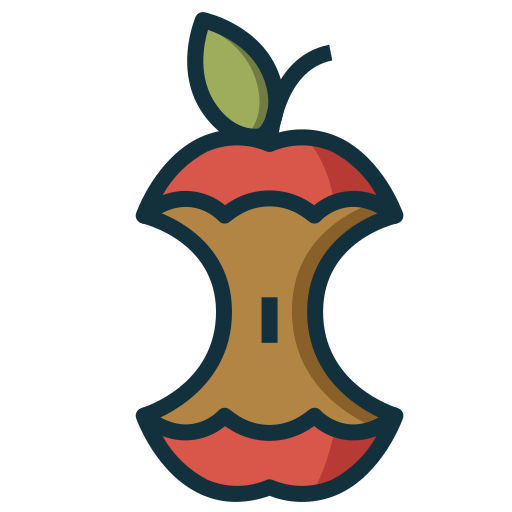
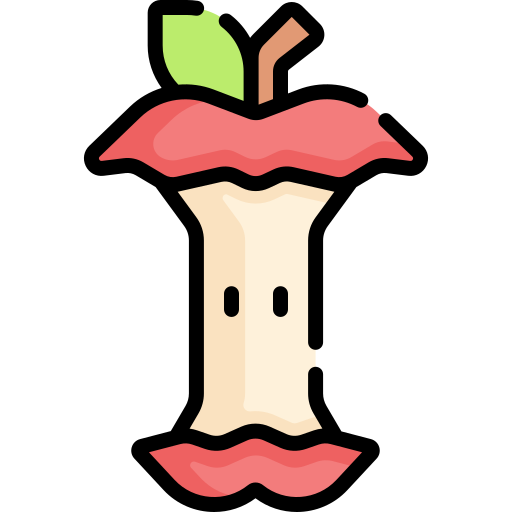
pantalla de fondo de juego colocada ya justada

diff --git a/assets/js/main.js b/assets/js/main.js
@@ -1,7 +1,7 @@
 const canvas = document.getElementById("canvasJuego");
 const ctx = canvas.getContext("2d");
 const fondo = new Image();
-fondo.src = "/assets/img/fondojuego.jpg";
+fondo.src = "./assets/img/fondo_juego.avif";
 const imagenes = {
 
     basura: [
@@ -96,7 +96,13 @@ btnComenzar.addEventListener("click", () => {
 
 // FUNCION BASE DEL JUEGO
 function iniciarJuego() {
-     document.body.classList.add("jugando"); // 👈 activa modo juego
+
+    document.body.classList.add("jugando");
+
+    // 👇 OCULTAR TÍTULO SOLO EN JUEGO
+    const titulo = document.querySelector(".tituloGame");
+    if (titulo) titulo.style.display = "none";
+
     gameLoop();
 }
 
@@ -206,7 +212,7 @@ if (obj.tipo === "botiquin") {
 });
 function gameLoop() {
 
-    ctx.clearRect(0, 0, canvas.width, canvas.height);
+    ctx.drawImage(fondo, 0, 0, canvas.width, canvas.height);
 
     actualizarObjetos();
     actualizarNivel();
@@ -224,31 +230,31 @@ function dibujarHUD() {
 
     // Fondo
     ctx.fillStyle = "rgba(0,0,0,0.5)";
-    ctx.fillRect(10, 10, 150, 80);
+    ctx.fillRect(10, 10, 170, 90);
 
-    // Texto principal (más grande)
+    // 👇 TEXTO MÁS GRANDE
     ctx.fillStyle = "#00ffe0";
-    ctx.font = "13px Orbitron";
+    ctx.font = "16px Orbitron";
 
-    ctx.fillText("Nivel: " + nivel, 15, 25);
-    ctx.fillText("Score: " + score, 15, 40);
-    ctx.fillText("Record: " + record, 15, 55);
+    ctx.fillText("Nivel: " + nivel, 15, 30);
+    ctx.fillText("Score: " + score, 15, 50);
+    ctx.fillText("Record: " + record, 15, 70);
 
     // Barra de vida
     ctx.fillStyle = "#333";
-    ctx.fillRect(15, 65, 110, 6);
+    ctx.fillRect(15, 78, 120, 8);
 
     ctx.fillStyle = "#00ff00";
-    ctx.fillRect(15, 65, salud * 1.1, 6);
+    ctx.fillRect(15, 78, salud * 1.2, 8);
 }
 
 function ajustarCanvas() {
 
-    const navbar = 40;
+    const navbar = 60;
     const footer = 60;
 
-    canvas.width = window.innerWidth * 0.95;
-    canvas.height = window.innerHeight - navbar - footer-35;
+    canvas.width = window.innerWidth * 0.97;
+    canvas.height = window.innerHeight - navbar - footer - 6; // 👈 menos espacio
 }
 
 window.addEventListener("resize", ajustarCanvas);

diff --git a/assets/css/styles.css b/assets/css/styles.css
@@ -8,16 +8,16 @@ body.no-scroll {
 
 canvas {
     border: 4px solid white;
-    background-image: url("../img/fondo.jpg");
     background-size: cover;
-    cursor: url("../img/cursor.png") 12 12, auto;
+    cursor: url("../img/cursor.png") 13 13, auto;
 }
 
+
 #canvasJuego {
-    width: 95vw;
+    width: 97vw;
 
     /* RESTAMOS NAVBAR + FOOTER */
-    height: calc(100vh - 100px);
+    height: 100%;
 
     display: block;
     margin: auto;
@@ -68,7 +68,7 @@ canvas {
     position: relative;
     bottom: 0;
     width: 100%;
-    z-index: 10000;
+    z-index: 1;
 }
 body.jugando .footer {
     position: relative;
@@ -80,9 +80,8 @@ body.jugando {
 
 /* Espacio para que el contenido no quede tapado */
 .container-fluid {
-    margin-top: 45px;  /* EXACTO al alto del navbar */
-    margin-bottom: 60px;
-    padding-top: 0; /* 👈 QUITA espacio extra */
+    margin-top: 10px;
+    margin-bottom: 10px; /* 👈 reduce espacio inferior */
 }
 
 /* TITULO PRINCIPAL */

diff --git a/index.html b/index.html
@@ -60,10 +60,9 @@
 
         <!-- CANVAS -->
         <div class="col-md-6 text-center">
-
-
-            <canvas id="canvasJuego"></canvas>
-
+            <div id="contenedorJuego">
+    <canvas id="canvasJuego"></canvas>
+</div>
         </div>
 
         <!-- SCORE -->
